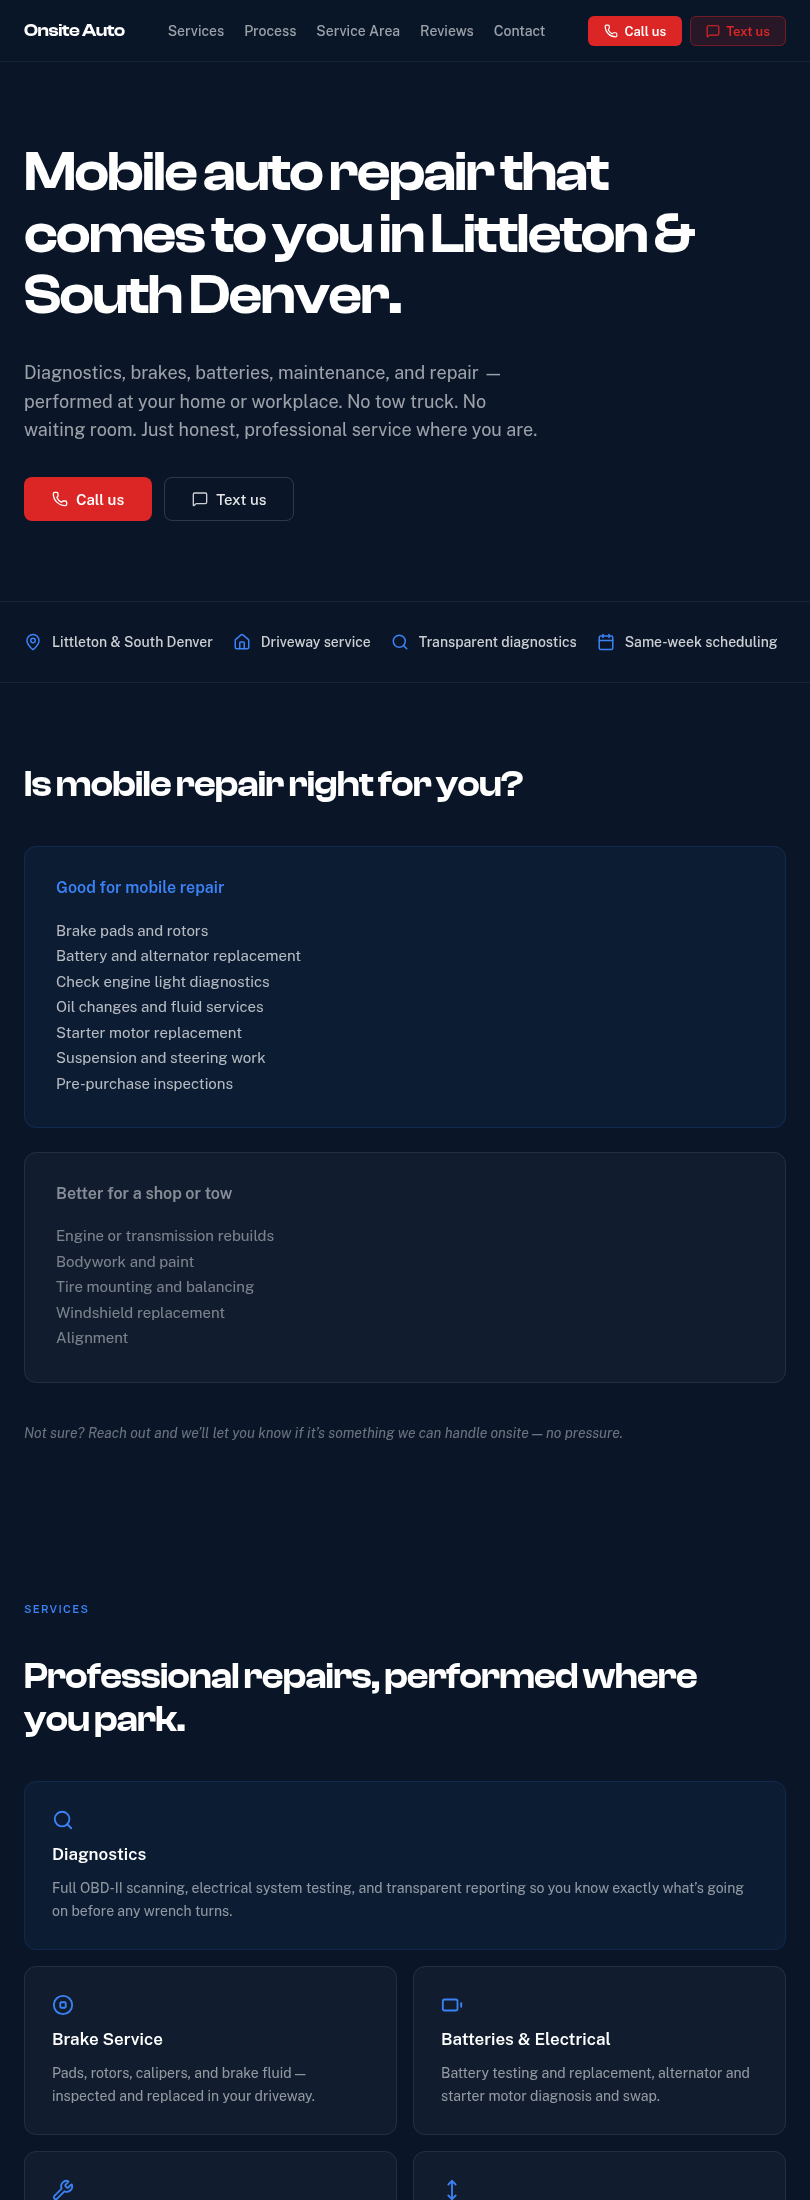
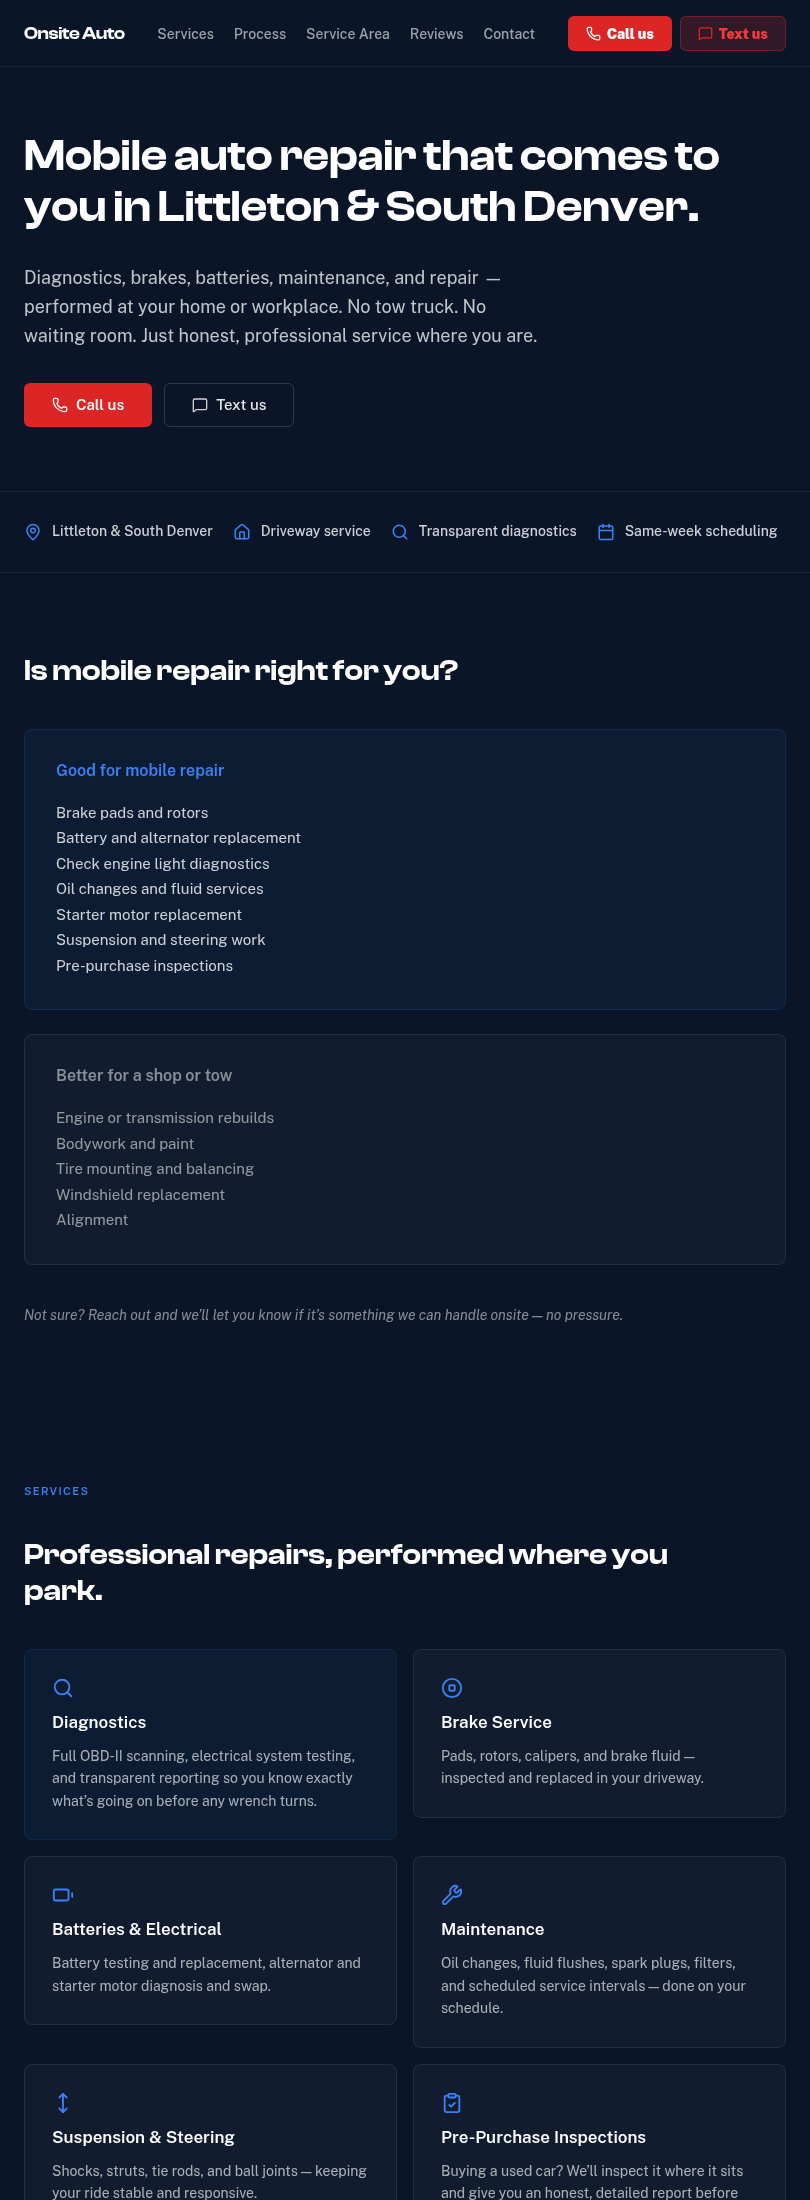
fix: polish Onsite Auto Framer preview

diff --git a/docs/index.html b/docs/index.html
@@ -28,7 +28,7 @@
           <div class="links"><a href="./onsite-auto-real-stitch/">Open desktop export</a><a href="./onsite-auto-real-stitch/mobile.html">Open mobile export</a><a href="./artifacts/onsite-auto-real-tools/desktop-stitch-screenshot.png">desktop screenshot</a><a href="./artifacts/onsite-auto-real-tools/mobile-stitch-screenshot.png">mobile screenshot</a></div>
         </section>
         <section class="card">
-          <div class="card-head"><div><h2>Onsite Auto — made in Framer</h2><p>Actual Framer Server API build in Sparkly Coconut, published as Framer-hosted site version 9f507dc31. Framer does not provide a self-hosted HTML export here.</p></div><span class="tag red">actual Framer</span></div>
+          <div class="card-head"><div><h2>Onsite Auto — made in Framer</h2><p>Actual Framer Server API build in Sparkly Coconut, published as Framer-hosted site version 835f5ea3b. Framer does not provide a self-hosted HTML export here.</p></div><span class="tag red">actual Framer</span></div>
           <div class="links"><a href="https://sparkly-coconut-281884.framer.app">Open Framer site</a><a href="./artifacts/onsite-auto-real-tools/onsite-framer-desktop-top.png">desktop screenshot</a><a href="./artifacts/onsite-auto-real-tools/onsite-framer-tablet-top.png">tablet screenshot</a><a href="./artifacts/onsite-auto-real-tools/onsite-framer-phone-top.png">phone screenshot</a></div>
         </section>
       </div>